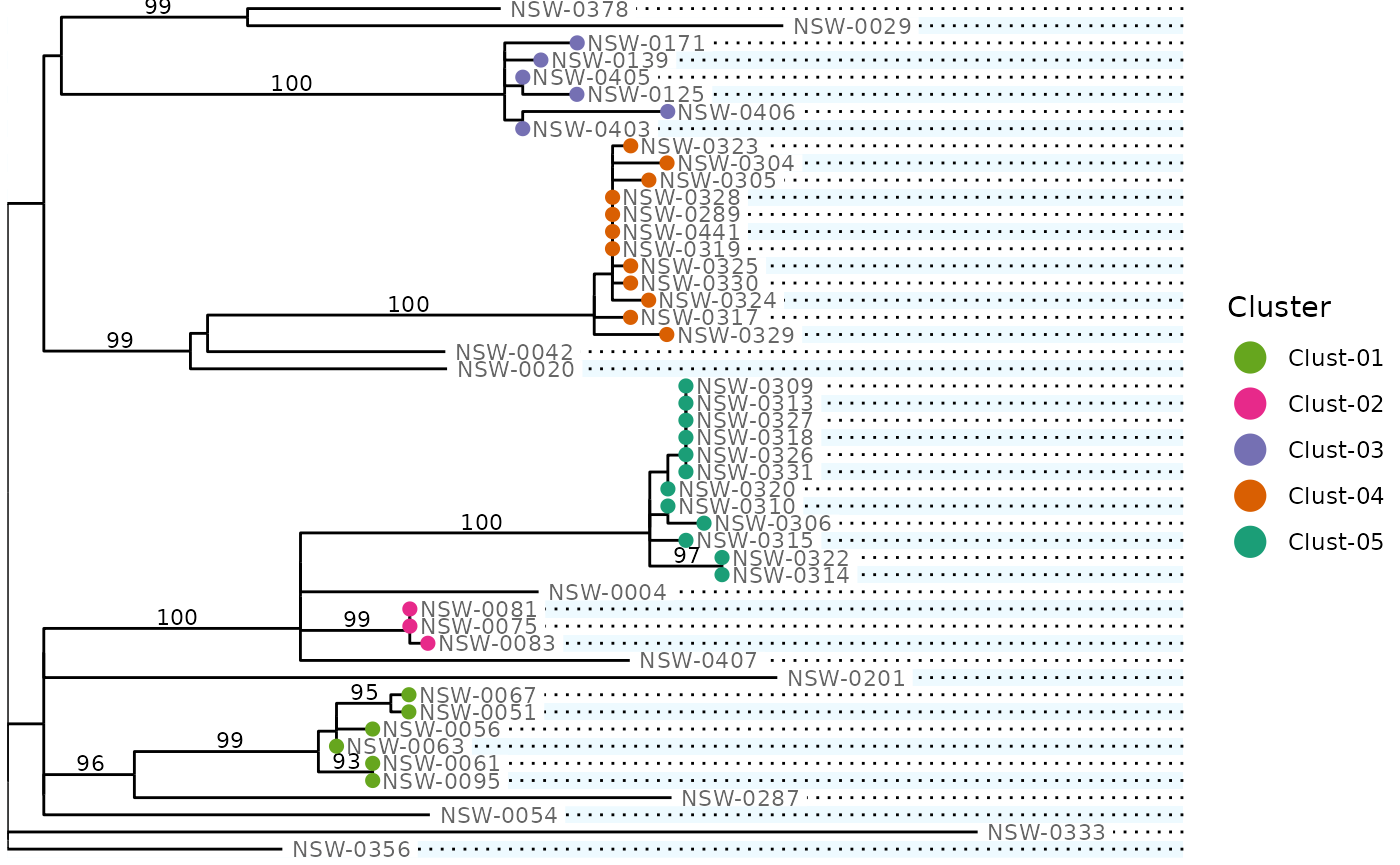
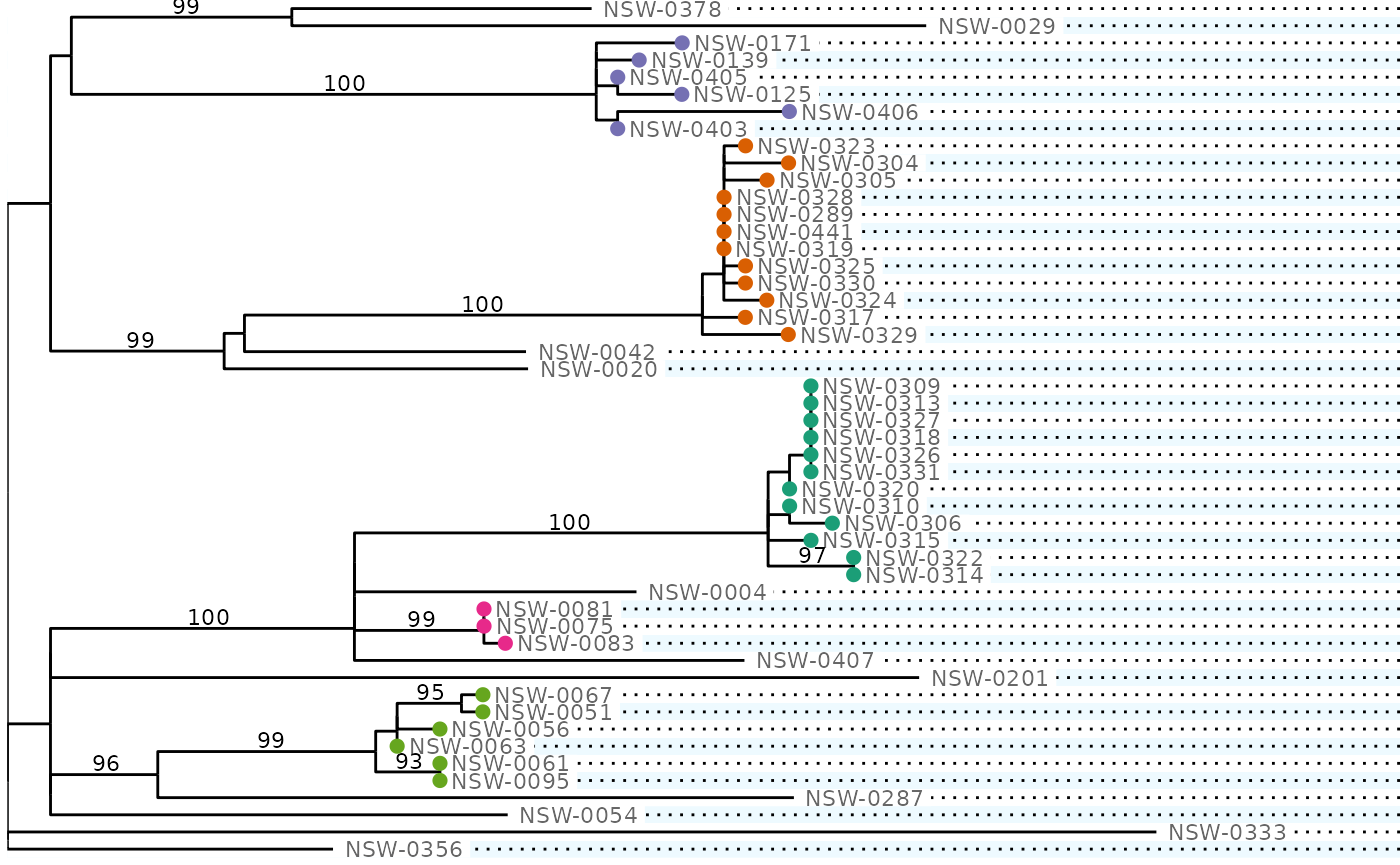
Deploying to gh-pages from @ cidm-ph/phylepic@8534299318ce363f448995b659403ada22bbe651 🚀

diff --git a/articles/phylepic.html b/articles/phylepic.html
@@ -98,43 +98,48 @@ and a label for any isolates that were assigned to a genomic cluster.
 These are read in from a CSV file:</p>
 <div class="sourceCode" id="cb3"><pre class="downlit sourceCode r">
 <code class="sourceCode R"><span><span class="va">metadata</span> <span class="op">&lt;-</span> <span class="fu"><a href="https://rdrr.io/r/utils/read.table.html" class="external-link">read.csv</a></span><span class="op">(</span><span class="fu"><a href="https://rdrr.io/r/base/system.file.html" class="external-link">system.file</a></span><span class="op">(</span><span class="st">"enteric_metadata.csv"</span>, package <span class="op">=</span> <span class="st">"phylepic"</span><span class="op">)</span><span class="op">)</span></span>
-<span><span class="fu"><a href="https://rdrr.io/r/utils/head.html" class="external-link">head</a></span><span class="op">(</span><span class="va">metadata</span><span class="op">)</span></span>
-<span><span class="co">#&gt;       name collection_date source  cluster</span></span>
-<span><span class="co">#&gt; 1 NSW-0004      2013-02-18   &lt;NA&gt;     &lt;NA&gt;</span></span>
-<span><span class="co">#&gt; 2 NSW-0020      2016-11-19   &lt;NA&gt;     &lt;NA&gt;</span></span>
-<span><span class="co">#&gt; 3 NSW-0029      2017-01-13   &lt;NA&gt;     &lt;NA&gt;</span></span>
-<span><span class="co">#&gt; 4 NSW-0042      2017-02-28   &lt;NA&gt;     &lt;NA&gt;</span></span>
-<span><span class="co">#&gt; 5 NSW-0051      2017-11-20   &lt;NA&gt; Clust-01</span></span>
-<span><span class="co">#&gt; 6 NSW-0054      2017-12-23   &lt;NA&gt;     &lt;NA&gt;</span></span></code></pre></div>
+<span><span class="fu"><a href="https://rdrr.io/r/utils/str.html" class="external-link">str</a></span><span class="op">(</span><span class="va">metadata</span><span class="op">)</span></span>
+<span><span class="co">#&gt; 'data.frame':    50 obs. of  4 variables:</span></span>
+<span><span class="co">#&gt;  $ name           : chr  "NSW-0004" "NSW-0020" "NSW-0029" "NSW-0042" ...</span></span>
+<span><span class="co">#&gt;  $ collection_date: chr  "2013-02-18" "2016-11-19" "2017-01-13" "2017-02-28" ...</span></span>
+<span><span class="co">#&gt;  $ source         : chr  NA NA NA NA ...</span></span>
+<span><span class="co">#&gt;  $ cluster        : chr  NA NA NA NA ...</span></span></code></pre></div>
 <p>The only requirements here are that we have a column that corresponds
 to the tip labels from the tree (here called <code>name</code>), and one
 that has dates represented as <code>Date</code> objects. We’ll also
 indicate the two columns with categorical data by converting them to
 factors:</p>
 <div class="sourceCode" id="cb4"><pre class="downlit sourceCode r">
-<code class="sourceCode R"><span><span class="va">metadata</span> <span class="op">&lt;-</span> <span class="fu"><a href="https://dplyr.tidyverse.org/reference/mutate.html" class="external-link">mutate</a></span><span class="op">(</span></span>
-<span>  <span class="va">metadata</span>,</span>
-<span>  <span class="fu"><a href="https://dplyr.tidyverse.org/reference/across.html" class="external-link">across</a></span><span class="op">(</span><span class="fu"><a href="https://rdrr.io/r/base/c.html" class="external-link">c</a></span><span class="op">(</span><span class="va">source</span>, <span class="va">cluster</span><span class="op">)</span>, <span class="va">factor</span><span class="op">)</span>,</span>
-<span>  collection_date <span class="op">=</span> <span class="fu"><a href="https://rdrr.io/r/base/as.Date.html" class="external-link">as.Date</a></span><span class="op">(</span><span class="va">collection_date</span><span class="op">)</span></span>
-<span><span class="op">)</span></span></code></pre></div>
+<code class="sourceCode R"><span><span class="va">metadata</span> <span class="op">&lt;-</span></span>
+<span>  <span class="va">metadata</span> <span class="op">|&gt;</span></span>
+<span>  <span class="fu"><a href="https://dplyr.tidyverse.org/reference/mutate.html" class="external-link">mutate</a></span><span class="op">(</span></span>
+<span>    <span class="fu"><a href="https://dplyr.tidyverse.org/reference/across.html" class="external-link">across</a></span><span class="op">(</span><span class="fu"><a href="https://rdrr.io/r/base/c.html" class="external-link">c</a></span><span class="op">(</span><span class="va">source</span>, <span class="va">cluster</span><span class="op">)</span>, <span class="va">factor</span><span class="op">)</span>,</span>
+<span>    collection_date <span class="op">=</span> <span class="fu"><a href="https://rdrr.io/r/base/as.Date.html" class="external-link">as.Date</a></span><span class="op">(</span><span class="va">collection_date</span><span class="op">)</span></span>
+<span>  <span class="op">)</span></span></code></pre></div>
 </div>
 <div class="section level2">
 <h2 id="basic-plotting">Basic plotting<a class="anchor" aria-label="anchor" href="#basic-plotting"></a>
 </h2>
-<p>To start with, we can pull out one clade from the tree to make a
-small plot:</p>
+<p>To start with, we should get the tree looking how we want it. You
+might want to root or re-root the tree (see <code><a href="https://rdrr.io/pkg/ape/man/root.html" class="external-link">ape::root</a></code>),
+reorganise the tip order (<code><a href="https://rdrr.io/pkg/ape/man/ladderize.html" class="external-link">ape::ladderize</a></code>), or prune away
+parts of the tree that aren’t relevant. For now, let’s extract a single
+clade from our larger tree:</p>
 <div class="sourceCode" id="cb5"><pre class="downlit sourceCode r">
 <code class="sourceCode R"><span><span class="va">clade.parent</span> <span class="op">&lt;-</span> <span class="fu">ape</span><span class="fu">::</span><span class="fu"><a href="https://rdrr.io/pkg/ape/man/mrca.html" class="external-link">getMRCA</a></span><span class="op">(</span><span class="va">tree</span>, <span class="fu"><a href="https://rdrr.io/r/base/c.html" class="external-link">c</a></span><span class="op">(</span><span class="st">"NSW-0324"</span>, <span class="st">"NSW-0330"</span><span class="op">)</span><span class="op">)</span></span>
 <span><span class="va">clade</span> <span class="op">&lt;-</span> <span class="fu">ape</span><span class="fu">::</span><span class="fu"><a href="https://rdrr.io/pkg/ape/man/drop.tip.html" class="external-link">extract.clade</a></span><span class="op">(</span><span class="va">tree</span>, <span class="va">clade.parent</span><span class="op">)</span></span>
 <span><span class="fu"><a href="https://rdrr.io/r/graphics/plot.default.html" class="external-link">plot</a></span><span class="op">(</span><span class="va">clade</span><span class="op">)</span></span></code></pre></div>
 <p><img src="phylepic_files/figure-html/unnamed-chunk-6-1.png" width="700"></p>
 <p>The <code><a href="../reference/phylepic.html">phylepic()</a></code> function joins a tree with its metadata
-and does some consistency checks. The resulting <code>phylepic</code>
-object has a plot method that guesses sensible defaults:</p>
+and does some consistency checks. It can help you to drop tips without
+metadata if desired. It’s also where we identify which columns of our
+metadata correspond to the tip labels and dates. The resulting
+<code>phylepic</code> object has a plot method that guesses sensible
+defaults:</p>
 <div class="sourceCode" id="cb6"><pre class="downlit sourceCode r">
 <code class="sourceCode R"><span><span class="fu"><a href="../reference/phylepic.html">phylepic</a></span><span class="op">(</span><span class="va">clade</span>, <span class="va">metadata</span>, <span class="va">name</span>, <span class="va">collection_date</span><span class="op">)</span> <span class="op">|&gt;</span> <span class="fu"><a href="https://rdrr.io/r/graphics/plot.default.html" class="external-link">plot</a></span><span class="op">(</span><span class="op">)</span></span>
-<span><span class="co">#&gt; Warning: Removed 1 row containing non-finite outside the scale range (`stat_week()`).</span></span>
-<span><span class="co">#&gt; Removed 1 row containing non-finite outside the scale range (`stat_week()`).</span></span></code></pre></div>
+<span><span class="co">#&gt; Warning: Removed 1 row containing non-finite outside the scale range</span></span>
+<span><span class="co">#&gt; (`stat_week()`). [phylepic: plot.epicurve]</span></span></code></pre></div>
 <p><img src="phylepic_files/figure-html/unnamed-chunk-7-1.png" width="700"></p>
 <p>Metadata bars were added for all factor columns in the metadata
 frame, with different categorical colour scales. The dates were binned
@@ -152,8 +157,8 @@ default plot needs some configuration to be useful:</p>
 <code class="sourceCode R"><span><span class="va">phydata</span> <span class="op">&lt;-</span> <span class="fu"><a href="../reference/phylepic.html">phylepic</a></span><span class="op">(</span><span class="va">tree</span>, <span class="va">metadata</span>, <span class="va">name</span>, <span class="va">collection_date</span><span class="op">)</span></span>
 <span></span>
 <span><span class="fu"><a href="https://rdrr.io/r/graphics/plot.default.html" class="external-link">plot</a></span><span class="op">(</span><span class="va">phydata</span><span class="op">)</span></span>
-<span><span class="co">#&gt; Warning: Removed 7 rows containing non-finite outside the scale range (`stat_week()`).</span></span>
-<span><span class="co">#&gt; Removed 7 rows containing non-finite outside the scale range (`stat_week()`).</span></span></code></pre></div>
+<span><span class="co">#&gt; Warning: Removed 7 rows containing non-finite outside the scale range</span></span>
+<span><span class="co">#&gt; (`stat_week()`). [phylepic: plot.epicurve]</span></span></code></pre></div>
 <p><img src="phylepic_files/figure-html/unnamed-chunk-8-1.png" width="1056"></p>
 <div class="section level3">
 <h3 id="the-date-scale">The date scale<a class="anchor" aria-label="anchor" href="#the-date-scale"></a>
@@ -180,8 +185,8 @@ the final grid using <code>height.tree</code> (choosing here to make is
 both the relevant panels:</p>
 <div class="sourceCode" id="cb10"><pre class="downlit sourceCode r">
 <code class="sourceCode R"><span><span class="fu"><a href="https://rdrr.io/r/graphics/plot.default.html" class="external-link">plot</a></span><span class="op">(</span><span class="va">phydata</span>, scale.date <span class="op">=</span> <span class="va">date_scale</span>, height.tree <span class="op">=</span> <span class="fl">6</span><span class="op">)</span></span>
-<span><span class="co">#&gt; Warning: Removed 28 rows containing non-finite outside the scale range (`stat_week()`).</span></span>
-<span><span class="co">#&gt; Removed 28 rows containing non-finite outside the scale range (`stat_week()`).</span></span></code></pre></div>
+<span><span class="co">#&gt; Warning: Removed 28 rows containing non-finite outside the scale range</span></span>
+<span><span class="co">#&gt; (`stat_week()`). [phylepic: plot.epicurve]</span></span></code></pre></div>
 <p><img src="phylepic_files/figure-html/unnamed-chunk-11-1.png" width="1056"></p>
 <p>Note that dates outside our chosen date limits are drawn on the
 calendar as triangles at the corresponding edge of the scale. Some rows
@@ -214,26 +219,29 @@ that we can have it be consistent between panels:</p>
 <span>  na.translate <span class="op">=</span> <span class="cn">FALSE</span>,</span>
 <span>  <span class="co"># we'll use this scale later for both fill and colour aesthetics</span></span>
 <span>  aesthetics <span class="op">=</span> <span class="fu"><a href="https://rdrr.io/r/base/c.html" class="external-link">c</a></span><span class="op">(</span><span class="st">"fill"</span>, <span class="st">"colour"</span><span class="op">)</span>,</span>
-<span>  <span class="co"># make the dots on the legend bigger so we can see the colours</span></span>
-<span>  guide <span class="op">=</span> <span class="fu"><a href="https://ggplot2.tidyverse.org/reference/guide_legend.html" class="external-link">guide_legend</a></span><span class="op">(</span>override.aes <span class="op">=</span> <span class="fu"><a href="https://rdrr.io/r/base/list.html" class="external-link">list</a></span><span class="op">(</span>size <span class="op">=</span> <span class="fl">5</span><span class="op">)</span><span class="op">)</span></span>
 <span><span class="op">)</span></span></code></pre></div>
 <p>To manipulate the tree, we use <code>plot_tree</code>, which creates
 the base plot to which we can add our new layers:</p>
 <div class="sourceCode" id="cb12"><pre class="downlit sourceCode r">
 <code class="sourceCode R"><span><span class="fu"><a href="../reference/plot_tree.html">plot_tree</a></span><span class="op">(</span><span class="va">phydata</span><span class="op">)</span> <span class="op">+</span></span>
 <span>  <span class="co"># `filter = leaf` in ggraph geoms means that they only draw the tips</span></span>
-<span>  <span class="fu">ggraph</span><span class="fu">::</span><span class="fu"><a href="https://ggraph.data-imaginist.com/reference/geom_node_point.html" class="external-link">geom_node_point</a></span><span class="op">(</span><span class="fu"><a href="https://ggplot2.tidyverse.org/reference/aes.html" class="external-link">aes</a></span><span class="op">(</span>filter <span class="op">=</span> <span class="va">leaf</span>, colour <span class="op">=</span> <span class="va">cluster</span><span class="op">)</span>, size <span class="op">=</span> <span class="fl">2</span><span class="op">)</span> <span class="op">+</span></span>
+<span>  <span class="fu">ggraph</span><span class="fu">::</span><span class="fu"><a href="https://ggraph.data-imaginist.com/reference/geom_node_point.html" class="external-link">geom_node_point</a></span><span class="op">(</span><span class="fu"><a href="https://ggplot2.tidyverse.org/reference/aes.html" class="external-link">aes</a></span><span class="op">(</span>filter <span class="op">=</span> <span class="va">leaf</span>, colour <span class="op">=</span> <span class="va">cluster</span><span class="op">)</span>, size <span class="op">=</span> <span class="fl">2</span>, show.legend <span class="op">=</span> <span class="cn">FALSE</span><span class="op">)</span> <span class="op">+</span></span>
 <span>  <span class="va">cluster_scale</span></span>
-<span><span class="co">#&gt; Warning: Duplicated `override.aes` is ignored.</span></span>
 <span><span class="co">#&gt; Warning: Removed 11 rows containing missing values or values outside the scale range</span></span>
-<span><span class="co">#&gt; (`geom_point()`).</span></span></code></pre></div>
-<p><img src="phylepic_files/figure-html/unnamed-chunk-13-1.png" width="700"></p>
+<span><span class="co">#&gt; (`geom_point()`). [phylepic: plot.tree]</span></span></code></pre></div>
+<p><img src="phylepic_files/figure-html/unnamed-chunk-13-1.png" width="700">
+Note that the guides from each panel will be merged in the final plot.
+If we don’t put <code>show.legend = FALSE</code> here, the guide for the
+cluster aesthetic will show circles instead of squares for the legend
+keys.</p>
 <p>All of the columns from our metadata frame are available (for the
 tips) to use in ggraph’s aesthetic mappings.</p>
-<p>Next, we’ll want to hide the redundant coloured tiles describing the
-cluster. To do this, we use <code>plot_bars</code> to override the
-default behaviour of creating a bar for each factor in the metadata
-frame. This helper takes arguments in the form
+<p>Next, we’ll want to hide the redundant column of coloured tiles
+corresponding to the cluster. Remember that this column was drawn
+because the default <code>plot.bars</code> panel makes a column of tiles
+for each factor column in out data frame. We can use
+<code>plot_bars</code> to override the default behaviour. This helper
+takes arguments in the form
 <code>&lt;column name&gt; = &lt;scale definition&gt;</code>:</p>
 <div class="sourceCode" id="cb13"><pre class="downlit sourceCode r">
 <code class="sourceCode R"><span><span class="fu"><a href="https://rdrr.io/r/graphics/plot.default.html" class="external-link">plot</a></span><span class="op">(</span></span>
@@ -241,7 +249,7 @@ frame. This helper takes arguments in the form
 <span>  plot.tree <span class="op">=</span> <span class="kw">function</span><span class="op">(</span><span class="va">x</span><span class="op">)</span> <span class="op">{</span></span>
 <span>    <span class="co"># this function will be called with x = phydata</span></span>
 <span>    <span class="fu"><a href="../reference/plot_tree.html">plot_tree</a></span><span class="op">(</span><span class="va">x</span><span class="op">)</span> <span class="op">+</span></span>
-<span>      <span class="fu">ggraph</span><span class="fu">::</span><span class="fu"><a href="https://ggraph.data-imaginist.com/reference/geom_node_point.html" class="external-link">geom_node_point</a></span><span class="op">(</span><span class="fu"><a href="https://ggplot2.tidyverse.org/reference/aes.html" class="external-link">aes</a></span><span class="op">(</span>filter <span class="op">=</span> <span class="va">leaf</span>, colour <span class="op">=</span> <span class="va">cluster</span><span class="op">)</span>, size <span class="op">=</span> <span class="fl">2</span><span class="op">)</span> <span class="op">+</span></span>
+<span>      <span class="fu">ggraph</span><span class="fu">::</span><span class="fu"><a href="https://ggraph.data-imaginist.com/reference/geom_node_point.html" class="external-link">geom_node_point</a></span><span class="op">(</span><span class="fu"><a href="https://ggplot2.tidyverse.org/reference/aes.html" class="external-link">aes</a></span><span class="op">(</span>filter <span class="op">=</span> <span class="va">leaf</span>, colour <span class="op">=</span> <span class="va">cluster</span><span class="op">)</span>, size <span class="op">=</span> <span class="fl">2</span>, show.legend <span class="op">=</span> <span class="cn">FALSE</span><span class="op">)</span> <span class="op">+</span></span>
 <span>      <span class="va">cluster_scale</span></span>
 <span>  <span class="op">}</span>,</span>
 <span>  plot.bars <span class="op">=</span> <span class="kw">function</span><span class="op">(</span><span class="va">x</span><span class="op">)</span> <span class="op">{</span></span>
@@ -256,6 +264,7 @@ frame. This helper takes arguments in the form
 <span>        drop <span class="op">=</span> <span class="cn">FALSE</span>,</span>
 <span>        na.translate <span class="op">=</span> <span class="cn">FALSE</span></span>
 <span>      <span class="op">)</span>,</span>
+<span>      <span class="co"># if we wanted more tile columns, we would add them here</span></span>
 <span>    <span class="op">)</span></span>
 <span>  <span class="op">}</span>,</span>
 <span>  scale.date <span class="op">=</span> <span class="va">date_scale</span>,</span>
@@ -264,14 +273,10 @@ frame. This helper takes arguments in the form
 <span>  width.legend <span class="op">=</span> <span class="fl">4</span>, <span class="co">#</span></span>
 <span>  height.tree <span class="op">=</span> <span class="fl">6</span></span>
 <span><span class="op">)</span></span>
-<span><span class="co">#&gt; Warning: Duplicated `override.aes` is ignored.</span></span>
-<span><span class="co">#&gt; Warning: Removed 28 rows containing non-finite outside the scale range</span></span>
-<span><span class="co">#&gt; (`stat_week()`).</span></span>
-<span><span class="co">#&gt; Warning: Duplicated `override.aes` is ignored.</span></span>
 <span><span class="co">#&gt; Warning: Removed 11 rows containing missing values or values outside the scale range</span></span>
-<span><span class="co">#&gt; (`geom_point()`).</span></span>
+<span><span class="co">#&gt; (`geom_point()`). [phylepic: plot.tree]</span></span>
 <span><span class="co">#&gt; Warning: Removed 28 rows containing non-finite outside the scale range</span></span>
-<span><span class="co">#&gt; (`stat_week()`).</span></span></code></pre></div>
+<span><span class="co">#&gt; (`stat_week()`). [phylepic: plot.epicurve]</span></span></code></pre></div>
 <p><img src="phylepic_files/figure-html/unnamed-chunk-14-1.png" width="1056"></p>
 <p>Each <code>plot.*</code> argument will normally be given a function
 that is called with a single parameter: the phylepic object provided to
@@ -315,7 +320,7 @@ scale).</p>
 <span>  <span class="va">phydata</span>,</span>
 <span>  plot.tree <span class="op">=</span> <span class="kw">function</span><span class="op">(</span><span class="va">x</span><span class="op">)</span> <span class="op">{</span></span>
 <span>    <span class="fu"><a href="../reference/plot_tree.html">plot_tree</a></span><span class="op">(</span><span class="va">x</span><span class="op">)</span> <span class="op">+</span></span>
-<span>      <span class="fu">ggraph</span><span class="fu">::</span><span class="fu"><a href="https://ggraph.data-imaginist.com/reference/geom_node_point.html" class="external-link">geom_node_point</a></span><span class="op">(</span><span class="fu"><a href="https://ggplot2.tidyverse.org/reference/aes.html" class="external-link">aes</a></span><span class="op">(</span>filter <span class="op">=</span> <span class="va">leaf</span>, colour <span class="op">=</span> <span class="va">cluster</span><span class="op">)</span>, size <span class="op">=</span> <span class="fl">2</span><span class="op">)</span> <span class="op">+</span></span>
+<span>      <span class="fu">ggraph</span><span class="fu">::</span><span class="fu"><a href="https://ggraph.data-imaginist.com/reference/geom_node_point.html" class="external-link">geom_node_point</a></span><span class="op">(</span><span class="fu"><a href="https://ggplot2.tidyverse.org/reference/aes.html" class="external-link">aes</a></span><span class="op">(</span>filter <span class="op">=</span> <span class="va">leaf</span>, colour <span class="op">=</span> <span class="va">cluster</span><span class="op">)</span>, size <span class="op">=</span> <span class="fl">2</span>, show.legend <span class="op">=</span> <span class="cn">FALSE</span><span class="op">)</span> <span class="op">+</span></span>
 <span>      <span class="va">cluster_scale</span></span>
 <span>  <span class="op">}</span>,</span>
 <span>  plot.bars <span class="op">=</span> <span class="fu"><a href="../reference/plot_bars.html">plot_bars</a></span><span class="op">(</span></span>
@@ -335,21 +340,23 @@ scale).</p>
 <span>  width.legend <span class="op">=</span> <span class="fl">4</span>,</span>
 <span>  height.tree <span class="op">=</span> <span class="fl">6</span></span>
 <span><span class="op">)</span></span>
-<span><span class="co">#&gt; Warning: Duplicated `override.aes` is ignored.</span></span>
-<span><span class="co">#&gt; Duplicated `override.aes` is ignored.</span></span>
-<span><span class="co">#&gt; Warning: Removed 28 rows containing non-finite outside the scale range</span></span>
-<span><span class="co">#&gt; (`stat_week()`).</span></span>
-<span><span class="co">#&gt; Warning: Duplicated `override.aes` is ignored.</span></span>
-<span><span class="co">#&gt; Duplicated `override.aes` is ignored.</span></span>
 <span><span class="co">#&gt; Warning: Removed 11 rows containing missing values or values outside the scale range</span></span>
-<span><span class="co">#&gt; (`geom_point()`).</span></span>
-<span><span class="co">#&gt; Warning: Duplicated `override.aes` is ignored.</span></span>
+<span><span class="co">#&gt; (`geom_point()`). [phylepic: plot.tree]</span></span>
+<span><span class="co">#&gt; Warning: Dropped 8 calendar arrows with no fill or colour</span></span>
+<span><span class="co">#&gt; (`geom_calendar()`) [phylepic: plot.calendar]</span></span>
 <span><span class="co">#&gt; Warning: Removed 28 rows containing non-finite outside the scale range</span></span>
-<span><span class="co">#&gt; (`stat_week()`).</span></span>
-<span><span class="co">#&gt; Warning: Duplicated `override.aes` is ignored.</span></span></code></pre></div>
+<span><span class="co">#&gt; (`stat_week()`). [phylepic: plot.epicurve]</span></span></code></pre></div>
 <p><img src="phylepic_files/figure-html/unnamed-chunk-16-1.png" width="1056"></p>
 <p>Because the cluster colour scales are consistent across panels, the
 legend guides are automatically combined.</p>
+<p>The warning messages coming from ggplot are annotated to indicate
+which panel was responsible. Here the warnings are telling us that * 11
+tree tips couldn’t be drawn because they have no cluster, * 8 rows (a
+subset of those 11) have known dates that are outside the calendar axis
+range, but the arrows couldn’t be drawn because they have no cluster and
+we configured the cluster scale with <code>na.translate = FALSE</code>,
+and * 28 rows didn’t contribute to the epidemic curve because their date
+was missing or out of range.</p>
 </div>
 </div>
   </main><aside class="col-md-3"><nav id="toc"><h2>On this page</h2>

diff --git a/reference/geom_calendar.html b/reference/geom_calendar.html
@@ -67,7 +67,7 @@ of the scale (see details below).</p>
 <span>  position <span class="op">=</span> <span class="st">"identity"</span>,</span>
 <span>  <span class="va">...</span>,</span>
 <span>  linejoin <span class="op">=</span> <span class="st">"mitre"</span>,</span>
-<span>  label_params <span class="op">=</span> <span class="fu"><a href="https://rdrr.io/r/base/list.html" class="external-link">list</a></span><span class="op">(</span><span class="op">)</span>,</span>
+<span>  label_params <span class="op">=</span> <span class="fu"><a href="https://rdrr.io/r/base/list.html" class="external-link">list</a></span><span class="op">(</span>colour <span class="op">=</span> <span class="st">"grey30"</span><span class="op">)</span>,</span>
 <span>  na.rm <span class="op">=</span> <span class="cn">FALSE</span>,</span>
 <span>  show.legend <span class="op">=</span> <span class="cn">NA</span>,</span>
 <span>  inherit.aes <span class="op">=</span> <span class="cn">TRUE</span></span>
